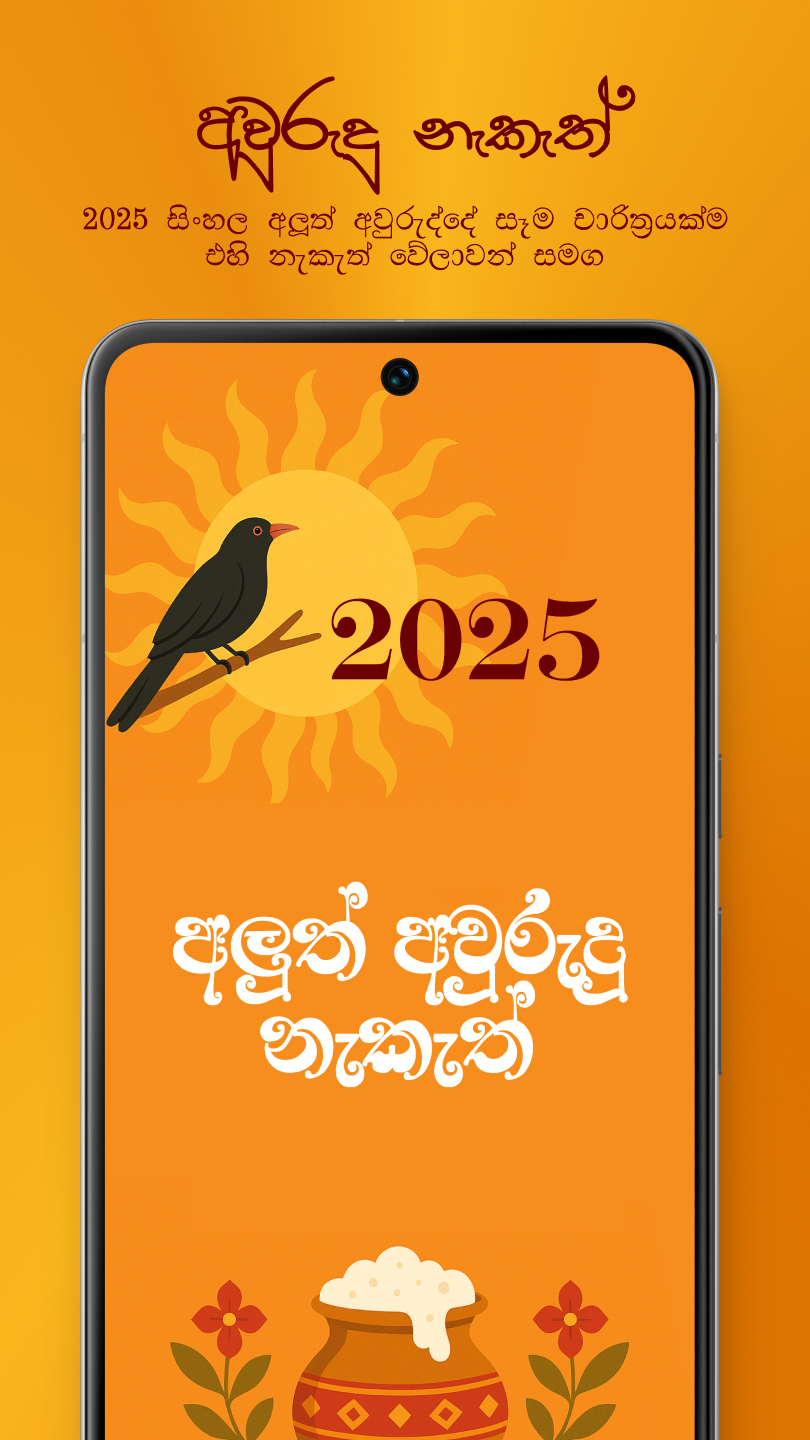
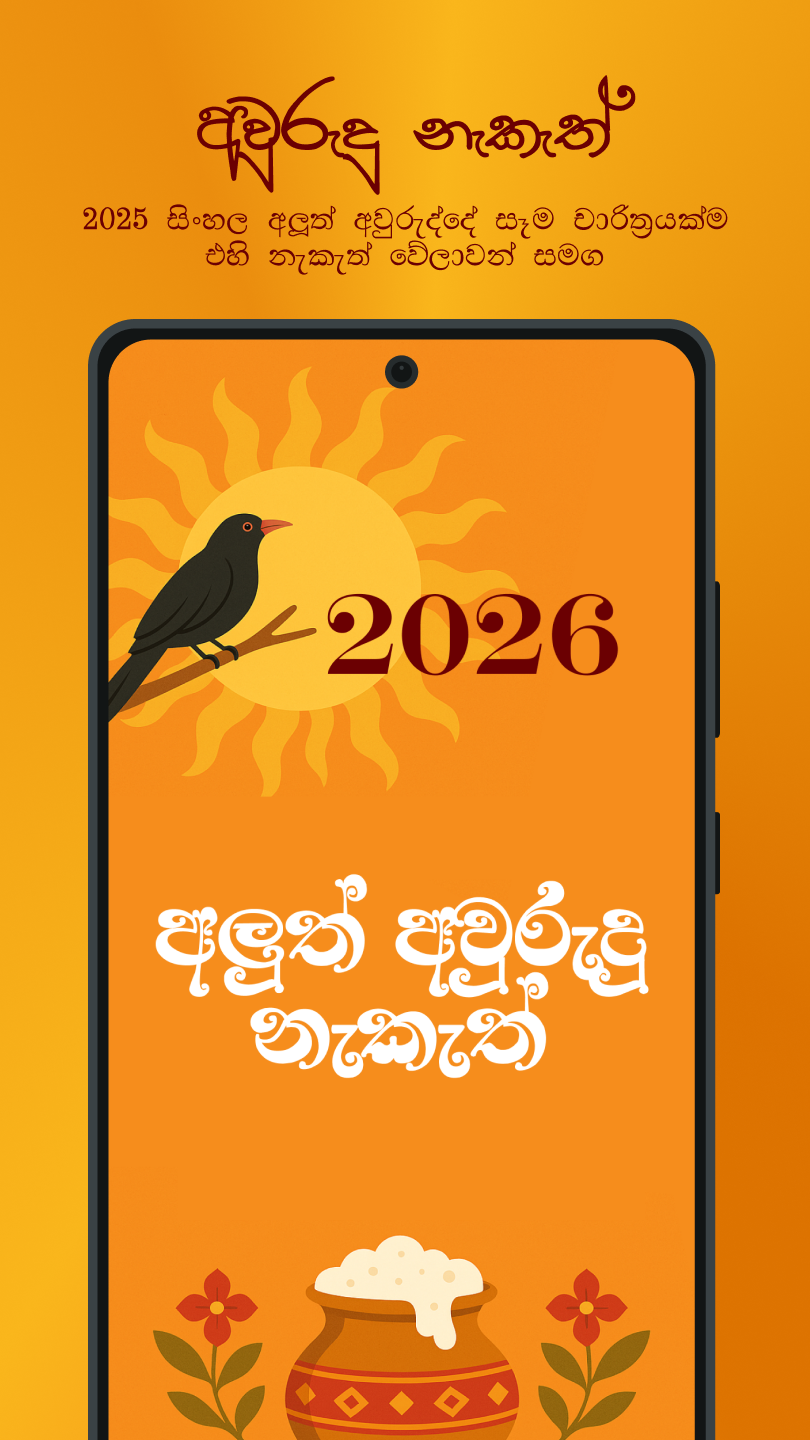
updated images

Changed region(s): [[0.0926, 0.2188, 0.9259, 1.0], [0.1852, 0.8438, 0.8025, 1.0], [0.1852, 0.5938, 0.8025, 0.75]]

diff --git a/index.html b/index.html
@@ -79,19 +79,19 @@
 					වේලා - such as අලුත් අවුරුදු උදාව, පුණ්ය කාලය, ආහාර පිසීම, වැඩ ඇල්ලීම, ගනුදෙනු කිරීම හා ආහාර
 					අනුභවය.
 				</p>
-				<p>Features:</p>
+				<p>✨ New Features:</p>
 				<ul>
-					<li>🕒 Live countdown for each Nakath time
-					</li>
-					<li>📜 Simple descriptions of Avurudu rituals
-					</li>
-					<li>🗓 Covers both Sinhala and Tamil traditions
-					</li>
-					<li>📱 Offline access—no internet needed once data is loaded
-					</li>
-					<li>🎉 A culturally-rooted experience made for all ages
-					</li>
+					<li>⏰ Smart reminders for every ritual</li>
+					<li>📅 Complete official schedule</li>
+					<li>🧭 Directions, colors & guidance</li>
+					<li>📖 Clear descriptions + short summaries</li>
+					<li>🎯 Track current & next Nakath</li>
+					<li>🎨 Clean, festive, easy-to-use UI</li>
+					<li>📌 Based on official 2026 auspicious times</li>
 				</ul>
+				<p>💡 Perfect for families and anyone who wants to follow Nakath correctly. 🌟</p>
+				<p>🎉 Plan your New Year the right way—download now!</p>
+
 			</div>
 			<a href="https://www.buymeacoffee.com/lakinduk" target="_blank"><img
 					src="https://cdn.buymeacoffee.com/buttons/v2/default-yellow.png" alt="Buy Me A Coffee"
